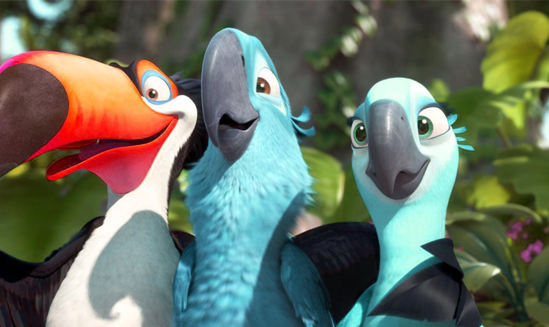
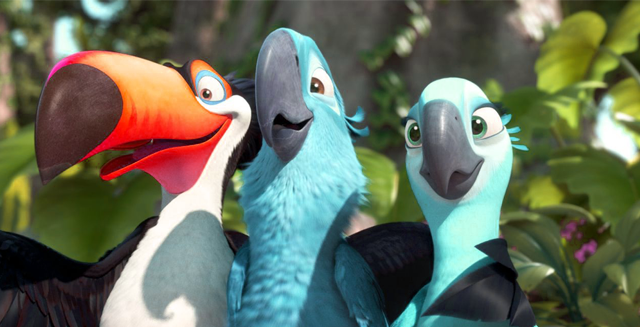
feat: mobile version

diff --git a/style.css b/style.css
@@ -170,12 +170,13 @@ nav h3 {
   height: 330px;
   position: absolute;
   margin: 80px 0 0 150px;
+  overflow: hidden;
 }
 
 .player .mask {
   position: absolute;
   background-color: #776832;
-  width: 550px;
+  width: 100%;
   height: 330px;
   opacity: 0.3;
   z-index: 4;
@@ -193,6 +194,9 @@ nav h3 {
   top: 132px;
 }
 
+header video {
+  transform: scale(1.17);
+}
 .resume-triangle {
   left: 28px;
   top: 18px;
@@ -440,6 +444,11 @@ video {
   top: 60px;
 }
 
+.tweet,
+.tweetbar {
+  display: none;
+}
+
 .date {
   display: inline-block;
   position: relative;
@@ -474,6 +483,9 @@ video {
   font-size: 20px;
   font-weight: 600;
   font-family: Times;
+}
+.tweetbox {
+  display: none;
 }
 
 .bottom {
@@ -624,4 +636,186 @@ a.link:active {
 
 a h3:active {
   box-shadow: inset 0 0px 2px 0px #4c4c4c;
+}
+
+@media (max-width:640px) {
+  body { 
+    width: 640px;
+  }
+  header {
+    height: 395px;
+    background: none;
+  }
+  header .logo {
+    position: fixed !important;
+    margin: 0 !important;
+    width: 190px;
+    height: 65px;
+    z-index: 7;
+    background: linear-gradient(0deg, rgba(70,70,70,1) 0%, rgba(98,98,98,1) 100%);
+  }
+  header .logo img {
+    width: 37px;
+    height: 37px;
+    margin-left: 12px;
+  }
+  h1 {
+    font-size: 20px;
+    text-shadow: 2px 2px #333333;
+  }
+  .rectback,
+  .rectmid {
+    display: none;
+  }
+  header nav {
+    position: fixed;
+    left: 190px;
+    top: 0;
+    height: 65px;
+    z-index: 7;
+  }
+  header .menu {
+    height: 65px;
+    left: 0px;
+    top: 0px;
+  }
+  header .menu h3 {
+    font-size: 20px;
+  }
+  header video {
+    width: 640px;
+    height: 330px;
+    transform: none;
+  }
+  header .player {
+    margin: 65px 0 0 0;
+    width: 640px;
+  }
+  main .vertical-line {
+    display: none;
+  }
+  .icons {
+    height: 145px;
+    padding: 0 0 30px 0;
+    align-items: flex-end;
+    box-shadow: none;
+  }
+  .icons img {
+    margin: 0 40px;
+    transform: scale(0.8);
+  }
+  .icons h4 {
+    margin-top: 20px;
+    font-size: 18px;
+  }
+  .slider {
+    background: none;
+    padding: 0;
+    height: 485px;
+  }
+  .slider p {
+    position: relative;
+    top: 0;
+    left: 0;
+    line-height: 1.2;
+    width: 236px;
+    height: 190px;
+    padding: 20px 38px 22px 26px;
+    margin: 10px;
+  }
+  .slider video {
+    top: 19px;
+  }
+  .slider .link {
+    top: 200px;
+    left: 275px;
+  }
+  .twitter {
+    background: #f5c507;
+    width: 100%;
+    top: 0;
+    left: 0;
+    text-align: left;
+  }
+  .twitter img {
+    width: 160px;
+    left: 85px;
+  }
+  .slider .date,
+  .slider .slider-bar,
+  .slider .slider-item,
+  .twitter span,
+  .twitter .link,
+  .slider h3 {
+    display: none;
+  }
+  span.tweet {
+    display: inline-block;
+    width: 217px;
+    height: 28px;
+    left: 325px;
+    padding: 10px 40px 5px 27px;
+    background: url("./assets/phrase.png") no-repeat;
+    font-family: ArialMT, MyriadPro-Regular;
+    font-size: 13px;
+    color: rgba(143, 142, 142, 255);
+  }
+  span.tweet:nth-of-type(2) {
+    top: 25px;
+  }
+  span.tweet:nth-of-type(3) {
+    top: 82px;
+    opacity: 0.7;
+  }
+  span.tweet:nth-of-type(4) {
+    top: 139px;
+    opacity: 0.5;
+  }
+  .tweetbox {
+    display: inline-block;
+    background: white;
+    width: 270px;
+    height: 30px;
+    position: absolute;
+    left: 335px;
+    top: 190px;
+    border-radius: 10px;
+  }
+  .send-button {
+    background: #e1a01e;
+    width: 70px;
+    height: 20px;
+    left: 200px;
+    border-radius: 0 10px 10px 0;
+    position: relative;
+    color: white;
+    font-size: 12px;
+    padding-top: 10px;
+    text-align: center;
+    font-family: ArialMT, MyriadPro-Regular;
+  }
+  .bottom ul {
+    display: none;
+  }
+  .bottom img {
+    left: 57px;
+  }
+  .bottom .circle {
+    left: 27px;
+  }
+  footer {
+    height: 50px;
+  }
+  footer .logo {
+    margin: 10px 0 0 65px;
+  }
+  footer .logo img {
+    width: 30px;
+    height: 30px;
+    margin-right: 10px;
+  }
+  footer h2 {
+    font-size: 15px;
+    text-shadow: 2px 2px #333333;
+  }
 }

diff --git a/index.html b/index.html
@@ -14,7 +14,6 @@
       <img src="./assets/logo.svg" alt="THEYALOW">
       <h1>theyalow</h1>
     </div>
-    
     <nav>
       <div class="rectback"></div>
       <div class="rectmid"></div>
@@ -74,12 +73,17 @@
 
     <section class="slider">
       <h3>Lorem ipsum dolor sit amet</h3>
-      <p>Lorem ipsum dolor sit amet, consectetur adipisicing elit, sed do eiusmod tempor incididunt ut<a href="#more" class="link">+</a></p>
+      <p>Lorem ipsum dolor sit amet, consecte<wbr>tur adipisicing elit, sed do eiusmod tempor incididunt ut<a href="#more" class="link">+</a></p>
       <video src="" poster="./assets/slider-video.png" width="315px" height="232px"></video>
       <div class="twitter">
         <span>22</span>
         <a href="http://twitter.com/theyalow" target="_blank"><img src="./assets/twitter.svg" alt="twitter"></a>
         <a href="#more" class="link">+</a>
+        <span class="tweet">Daily Mobile UI Design Inspiration #1 via @cssauthor</span>
+        <span class="tweet">Daily Mobile UI Design Inspiration #1 via @cssauthor</span>
+        <span class="tweet">Daily Mobile UI Design Inspiration #1 via @cssauthor</span>
+        <div class="tweetbox"><div class="send-button">Tweet</div></div>
+        <div class="tweetbar"><div class="tweet-button">Tweet</div></div>
       </div>
       <div class="date">
         <h4>25</h4>
